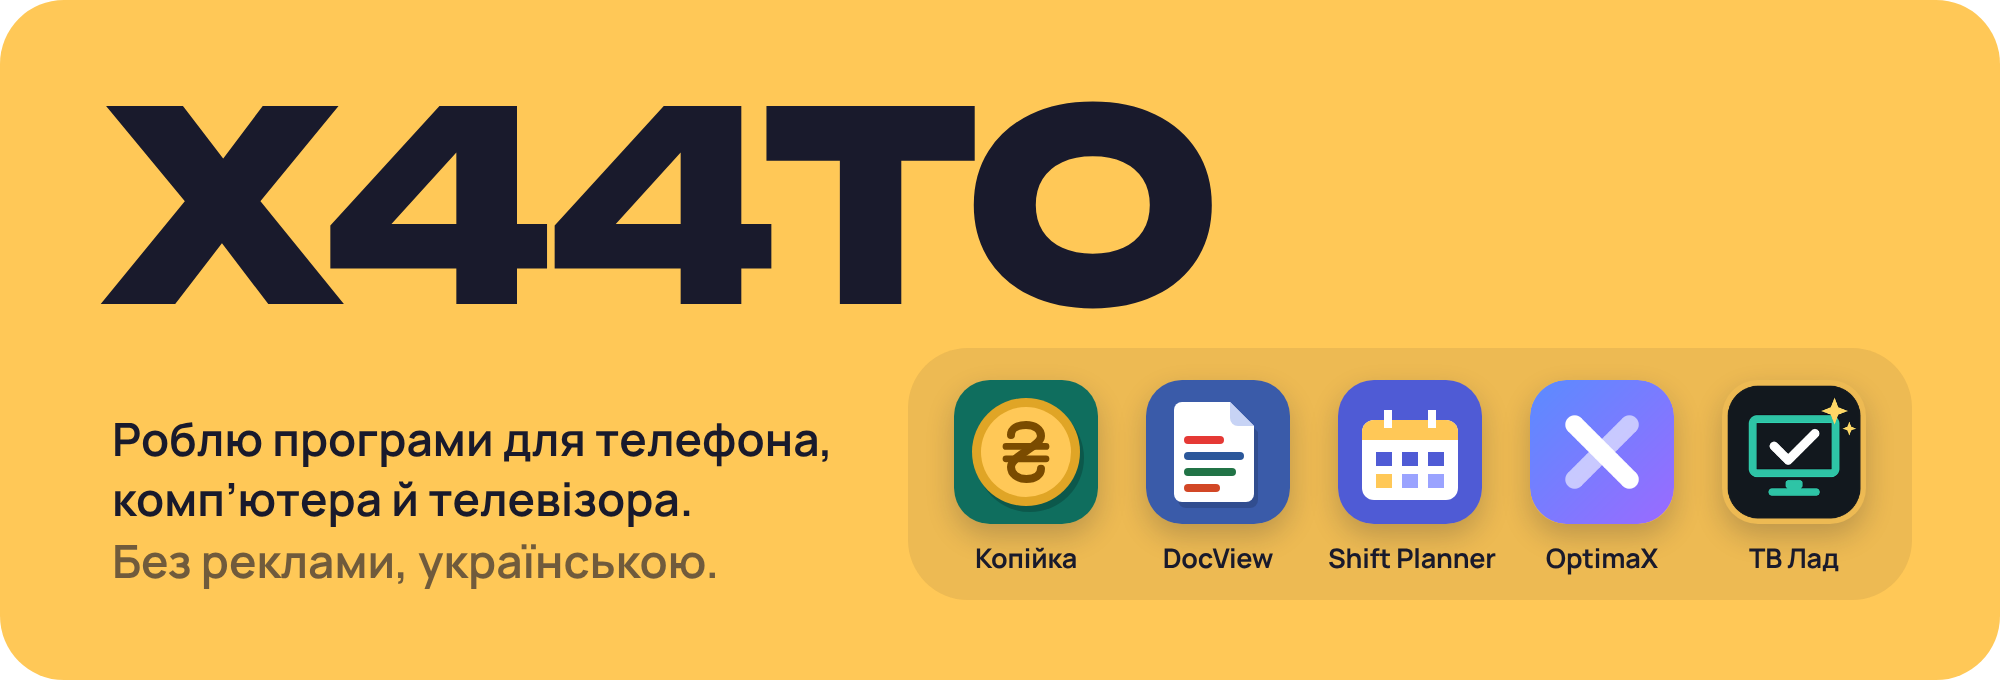
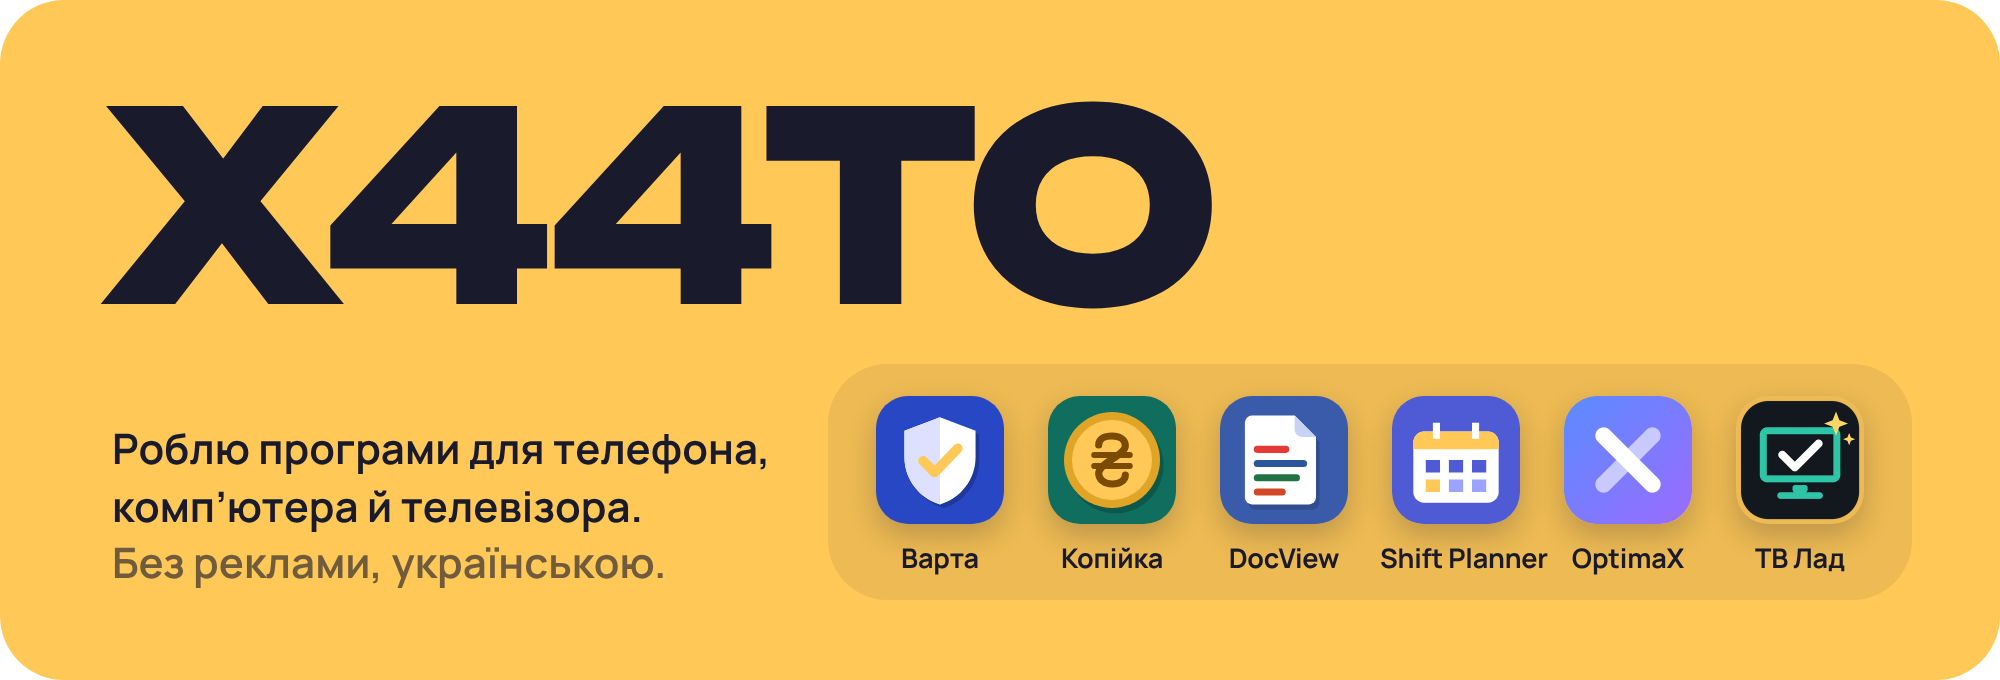
Профіль: картка й значок «Варти»
Claude-Session: https://claude.ai/code/session_01CEdiyauDfxaYMJBeYKKqTs

Changed region(s): [[0.062, 0.5559, 0.93, 0.8647], [0.062, 0.8029, 0.372, 0.8647], [0.868, 0.8029, 0.93, 0.8338]]

diff --git a/README.md b/README.md
@@ -2,23 +2,26 @@
   <img src="assets/header.png" width="100%" alt="X44TO. Роблю програми для телефона, комп’ютера й телевізора. Без реклами, українською.">
 </p>
 
-Привіт! Я роблю програми, якими користуюся сам: планер витрат, графік змін, переглядач документів, оптимізатор Windows і програму, що наводить лад у телевізорі. Без реклами й трекерів, з українським інтерфейсом.
+Привіт! Я роблю програми, якими користуюся сам: захист телефона від шпигунок, планер витрат, графік змін, переглядач документів, оптимізатор Windows і програму, що наводить лад у телевізорі. Без реклами й трекерів, з українським інтерфейсом.
 
 <sub>🇬🇧 Apps for Android, Windows and Android TV, with no ads. Most projects have an English README.</sub>
 
 ## Проєкти
 
 <p align="center">
-  <a href="https://github.com/hatogg/OptimaX-by-X44TO"><img src="assets/optimax.png" width="49%" alt="OptimaX: оптимізація Windows, яку видно в замірах FPS, з відкатом кожної зміни"></a>
+  <a href="https://github.com/hatogg/Varta"><img src="assets/varta.png" width="49%" alt="Варта: шукає на телефоні шпигунки й бекдори за базою стежилок і чистить сміття"></a>
   <a href="https://github.com/hatogg/Kopiyka"><img src="assets/kopiyka.png" width="49%" alt="Копійка: планер витрат і доходів для Android, бюджети й спільний бюджет"></a>
 </p>
 <p align="center">
   <a href="https://github.com/hatogg/tv-lad"><img src="assets/tvlad.png" width="49%" alt="ТВ Лад: прискорює телевізор KIVI та інший Android TV з комп’ютера, свій головний екран і відкат"></a>
+  <a href="https://github.com/hatogg/OptimaX-by-X44TO"><img src="assets/optimax.png" width="49%" alt="OptimaX: оптимізація Windows, яку видно в замірах FPS, з відкатом кожної зміни"></a>
+</p>
+<p align="center">
   <a href="https://github.com/hatogg/Shift-Planner-"><img src="assets/shift.png" width="49%" alt="Shift Planner: графік змін із шаблонами 2/2, нотатками, годинами й заробітком"></a>
+  <a href="https://github.com/hatogg/Modules-for-Usersbot"><img src="assets/modules.png" width="49%" alt="Модулі для юзербота Telegram: .alert показує тривогу в місті чи області, .w показує погоду"></a>
 </p>
 <p align="center">
   <a href="https://github.com/hatogg/DocView"><img src="assets/docview.png" width="49%" alt="DocView: PDF, Word, Excel, PowerPoint і книжки на телефоні без інтернету"></a>
-  <a href="https://github.com/hatogg/Modules-for-Usersbot"><img src="assets/modules.png" width="49%" alt="Модулі для юзербота Telegram: .alert показує тривогу в місті чи області, .w показує погоду"></a>
 </p>
 
 ## Як я їх роблю
@@ -30,7 +33,7 @@
 
 ## Зараз роблю
 
-**«Лад»**, легкий головний екран для старих Android TV: великі плитки входів HDMI для PlayStation і ПК, улюблені програми, світла й темна тема. Ставиться з [ТВ Лад](https://github.com/hatogg/tv-lad) одним натисканням.
+**«Варта»**, захисник для Android: звіряє програми з відкритою базою відомих стежилок, показує підозрілі права й небезпечні налаштування і чистить пам'ять від сміття. Без інтернету й реклами. [Завантажити APK](https://github.com/hatogg/Varta/releases/latest)
 
 ## Інструменти
 
